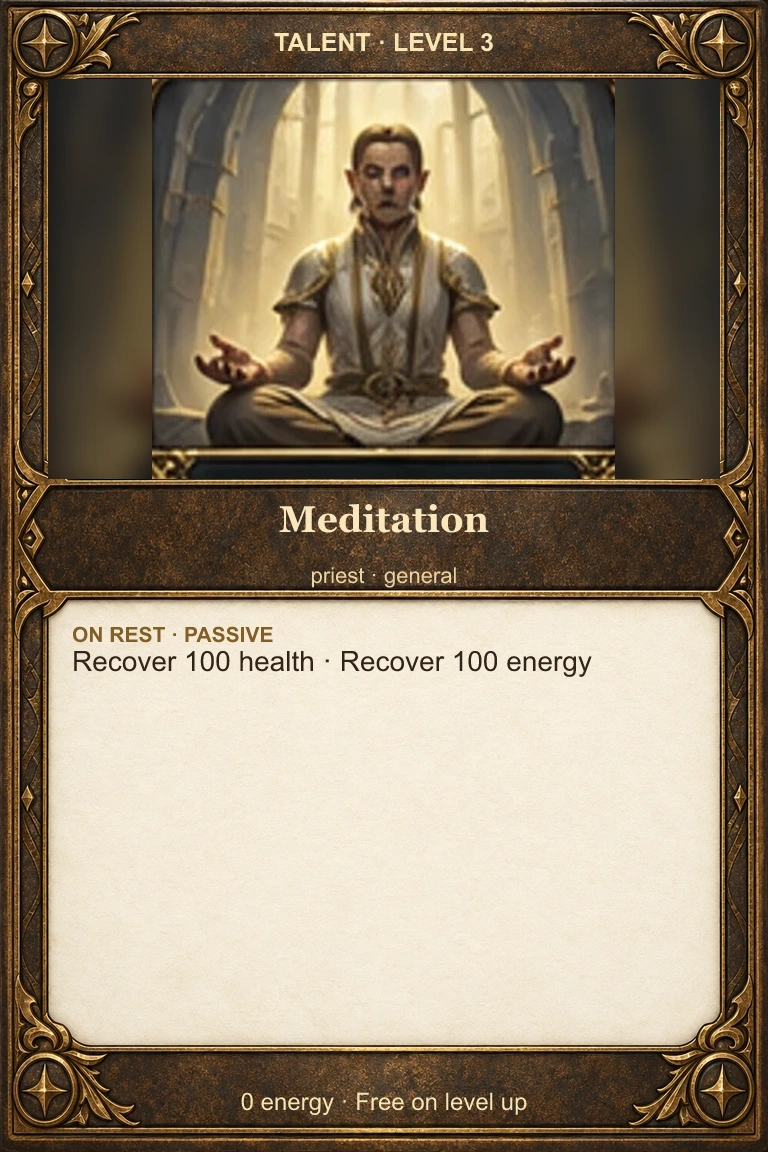
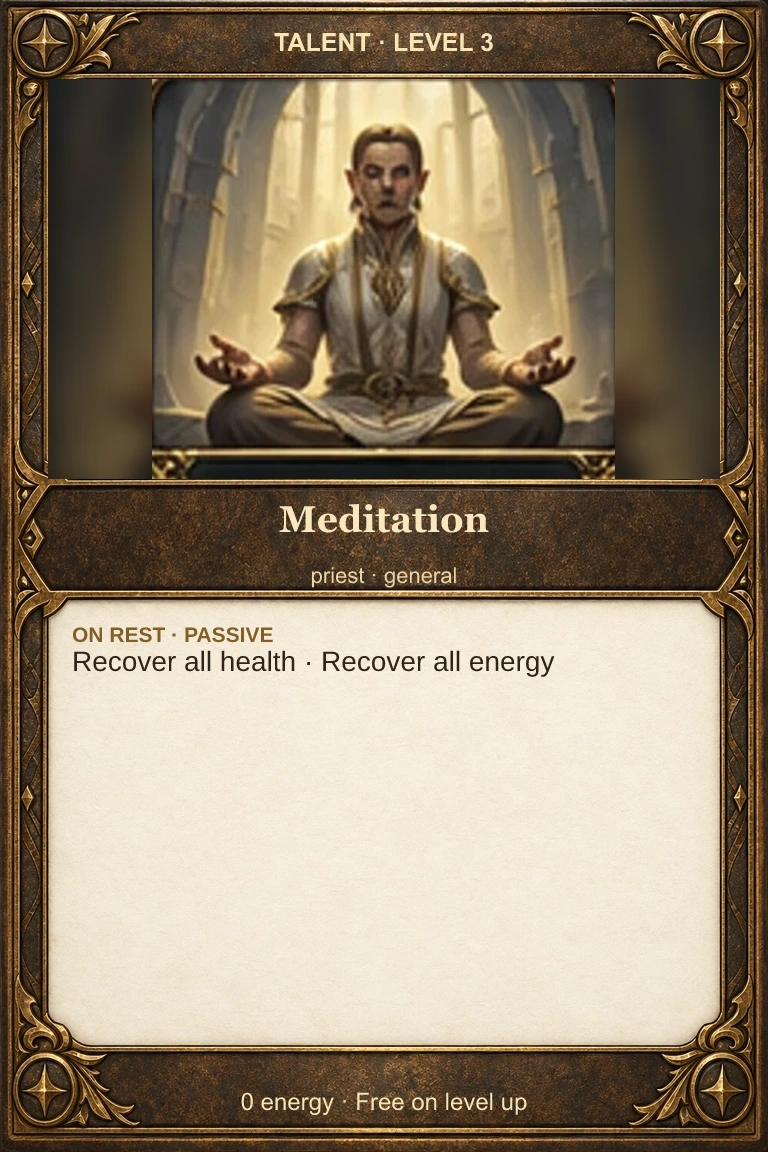
Keep automation running past quest reveals and name full recovery on cards
With Run AI on, every live quest draw opened the "A new quest enters play"
modal and automationPaused halted the bots until a person closed it, so an
unattended campaign never advanced. While automation runs the draw is now
announced with the notice and NEW badge only; the reveal stays available on
demand and opens by itself again once automation is off.

Crocolisk Steak and Meditation express full recovery as an amount no
capacity can exceed, which rendered as "Recover 100 health". Rules text now
reads "Recover all health · Recover all energy", and the rules body of the
three baked card faces is re-rendered with metric-compatible fonts while
header, title, art and footer pixels stay untouched.

Claude-Session: https://claude.ai/code/session_01Eo1g1NmvJ7h5eknWYLT55n

Changed region(s): [[0.2188, 0.5312, 0.7812, 0.5938], [0.1562, 0.5312, 0.1875, 0.5625], [0.0938, 0.5625, 0.125, 0.5938]]

diff --git a/src/Campaign.tsx b/src/Campaign.tsx
@@ -137,7 +137,7 @@ export default function Campaign(){
  <header className="topbar"><button className="wordmark" onClick={()=>setPage('board')}><span className="brand-crest"><GameIcon name="melee" size={35}/></span><span><strong>WORLD <small>of</small> WARCRAFT</strong><em>THE BOARD GAME <i/> 2005 + FAQ</em></span></button><nav className="topnav" aria-label="Main navigation">{[['board',"Campaign"],['cards',"Card library"],['heroes',"Heroes"],['journal',"Chronicle"],['rules',"Rules"]].map(([id,label])=><button key={id} className={page===id?'active':''} aria-current={page===id?'page':undefined} onClick={()=>setPage(id)}>{label}</button>)}</nav><div className="header-right"><button className={`session-badge ${saveUnavailable?'save-unavailable':''}`} onClick={()=>open('settings')} title={saveUnavailable?'Autosave is unavailable. Export your game before closing this tab.':'Local game · Manage saved games'}><i/>{saveUnavailable?'SAVE UNAVAILABLE':'LOCAL GAME'}</button><button className="icon-button" aria-label="New game" title="Set up a new campaign" onClick={()=>open('new')}><Icon name="plus"/></button><button className="icon-button" aria-label="Settings" onClick={()=>open('settings')}><Icon name="settings"/></button></div></header>
  <main className="campaign-main"><div className="campaign-title"><div><div className="eyebrow"><span className="chapter-dot"/>LORDAERON <span className="slash">/</span> A WAR OF TWO FACTIONS</div><h1>Fate of the kingdom<span>{phaseLabel[state.phase]}</span></h1></div><div className="campaign-turn"><FactionCrest faction={state.faction}/><span className={state.faction}>{factionLabel(state.faction)}</span><b>{state.turn}<small> / 30{state.lap?` · lap ${state.lap}`:''}</small></b><button className="quiet-button" disabled={!nextPhase} onClick={()=>nextPhase&&send(nextPhase)}>{state.phase==='actions'?"Management":"End turn"}<Icon name="arrow"/></button></div></div>
  {page==='board'&&game.needsSetup&&<section className="campaign-welcome"><span className="sheet-eyebrow">A WAR OF TWO FACTIONS</span><h2>Your adventure begins here.</h2><p>Prepare the table, choose your characters and discover how your first turn works.</p><button className="gold-button" onClick={()=>open('new')}>Set up a campaign <Icon name="arrow"/></button></section>}
- {page==='board'&&!game.needsSetup&&<Tabletop key={questSession} state={state} h={h} legal={legal} controlled={controlled} bots={bots} takeControl={id=>{setBots(previous=>previous.filter(bot=>bot!==id));chooseHero(id);}} auto={auto} botReady={botReady} botReason={botReason} selectHero={chooseHero} selected={selected} selectRegion={setSelected} inspect={inspect} open={open} send={send} botStep={botStep} toggleBots={()=>setAuto(v=>!v)} focused={mapFocus} toggleFocus={()=>setMapFocus(v=>!v)} notify={setToast} combatOpen={combatOpen} toggleCombat={()=>setCombatOpen(v=>!v)} onWorkspaceChange={setWorkspaceOpen} questActivity={<QuestActivity key={questSession} state={state} autoRevealSetup={revealSetup} suspended={!!panel||detailOpen||workspaceOpen||decision||state.phase==='combat'} onOpenChange={visible=>{setQuestOpen(visible);if(visible)setRevealSetup(false);}} onLocate={region=>{setSelected(region);setMapFocus(true);}}/>}/>}
+ {page==='board'&&!game.needsSetup&&<Tabletop key={questSession} state={state} h={h} legal={legal} controlled={controlled} bots={bots} takeControl={id=>{setBots(previous=>previous.filter(bot=>bot!==id));chooseHero(id);}} auto={auto} botReady={botReady} botReason={botReason} selectHero={chooseHero} selected={selected} selectRegion={setSelected} inspect={inspect} open={open} send={send} botStep={botStep} toggleBots={()=>setAuto(v=>!v)} focused={mapFocus} toggleFocus={()=>setMapFocus(v=>!v)} notify={setToast} combatOpen={combatOpen} toggleCombat={()=>setCombatOpen(v=>!v)} onWorkspaceChange={setWorkspaceOpen} questActivity={<QuestActivity key={questSession} state={state} autoRevealSetup={revealSetup} announceOnly={auto} suspended={!!panel||detailOpen||workspaceOpen||decision||state.phase==='combat'} onOpenChange={visible=>{setQuestOpen(visible);if(visible)setRevealSetup(false);}} onLocate={region=>{setSelected(region);setMapFocus(true);}}/>}/>}
  {page==='cards'&&<BaseCatalog inspect={inspect}/>}
  {page==='heroes'&&<section className="character-codex"><div className="character-roster">{p.characters.map(c=><button key={c.id} aria-pressed={codexHero===c.id} onClick={()=>setCodexHero(c.id)}><HeroPortrait id={c.id} small/><span><strong>{c.name.split(' ')[0]}</strong><small>{c.classId} · {factionLabel(c.faction)}</small></span></button>)}</div><CharacterSheet key={codexHero} hero={state.heroes.find(h=>h.id===codexHero)??startingHero(codexHero)} inspect={inspect} preview/></section>}
  {page==='design'&&<Suspense fallback={<p>Loading…</p>}><DesignGallery/></Suspense>}

diff --git a/src/campaign/QuestReveal.tsx b/src/campaign/QuestReveal.tsx
@@ -73,8 +73,9 @@ export function QuestReveal({ receipt, state, onClose, onLocate }: { receipt: Qu
 }
 
 /** Keeps a placement receipt outside the quest workspace so automated draws stay visible. */
-export default function QuestActivity({ state, onLocate, suspended = false, autoRevealSetup = false, onOpenChange }: { state: GameView; onLocate?: (region: string, quest: string) => void; suspended?: boolean; autoRevealSetup?: boolean; onOpenChange?: (visible: boolean) => void }) {
+export default function QuestActivity({ state, onLocate, suspended = false, autoRevealSetup = false, announceOnly = false, onOpenChange }: { state: GameView; onLocate?: (region: string, quest: string) => void; suspended?: boolean; autoRevealSetup?: boolean; /** Announce live draws without opening the reveal, so running automation is never blocked by a modal. */ announceOnly?: boolean; onOpenChange?: (visible: boolean) => void }) {
  const previous = useRef<QuestState>(state);
+ const quiet = useRef(announceOnly); quiet.current = announceOnly;
  const notifyVisibility = useRef(onOpenChange); notifyVisibility.current = onOpenChange;
  const [latest, setLatest] = useState<QuestReceipt>(() => questReceipt(state, state.revision === 0 ? 'setup' : 'overview'));
  const [open, setOpen] = useState(autoRevealSetup);
@@ -93,7 +94,7 @@ export default function QuestActivity({ state, onLocate, suspended = false, auto
   if (receipt) {
    setLatest(receipt); setFresh(true); setOverview(false);
    setNotice(`${receipt.quests.map(id => p.quests.find(q => q.id === id)!.name).join(', ')} drawn. ${placementTotals(receipt).creatures} creatures placed on the map.`);
-   setOpen(true);
+   if (!quiet.current) setOpen(true);
   } else if (finished.length) setNotice(`${finished.map(id => p.quests.find(q => q.id === id)!.name).join(', ')} completed. Resolve rewards, then choose a replacement quest.`);
  }, [state]);
  const close = () => { setOpen(false); setFresh(false); };

diff --git a/src/campaign/rules-text.ts b/src/campaign/rules-text.ts
@@ -22,12 +22,14 @@ function rawConditionText(c:Condition):string{
   case 'used':return `used this round: ${c.cardId}`;case 'used-any':return `used this round: ${c.cards.join(' / ')}`;
  }
 }
+/** Cards such as Crocolisk Steak recover up to capacity; the data expresses that as an amount no capacity can exceed. */
+export const FULL_RECOVERY=100;
 export const effectText=(e:Effect):string=>readable(rawEffectText(e));
 function rawEffectText(e:Effect):string{
  switch(e.op){
   case 'dice':return `+${e.amount} ${colorName[e.color]} dice`;
   case 'stat':return `${e.amount>=0?'+':''}${e.amount} ${e.stat==='reroll'?'Reroll':e.stat==='attrition'?'Attrition':e.stat==='armor'?'Armor':'Threat'}`;
-  case 'resource':return `${e.amount<0?"Spend":e.gain?"Gain":"Recover"} ${Math.abs(e.amount)} ${e.resource==='health'?"health":e.resource==='energy'?"energy":"gold"}${e.target==='friendly'?" for an ally":''}${e.gain?" (may exceed capacity)":''}`;
+  case 'resource':{const name=e.resource==='health'?"health":e.resource==='energy'?"energy":"gold";if(e.amount>=FULL_RECOVERY&&!e.gain&&e.resource!=='gold')return `Recover all ${name}${e.target==='friendly'?" for an ally":''}`;return `${e.amount<0?"Spend":e.gain?"Gain":"Recover"} ${Math.abs(e.amount)} ${name}${e.target==='friendly'?" for an ally":''}${e.gain?" (may exceed capacity)":''}`;}
   case 'spot':return `Spot ${e.count} (${filterText(e.filter)}) → ${e.effects.map(effectText).join('; ')}`;
   case 'remove':return `Remove ${e.count} (${filterText(e.filter)}) → ${e.effects.map(effectText).join('; ')}`;
   case 'change':return `Change ${e.count} (${filterText(e.filter)}) → ${e.delta?`value +${e.delta}, up to 8`:e.value??"same value"}${e.colorChoice?', any available color':e.color?`, ${colorName[e.color]} dice`:''}`;

diff --git a/tests/quest-visibility.test.tsx b/tests/quest-visibility.test.tsx
@@ -104,6 +104,25 @@ describe('quest discovery without changing the game', () => {
   expect(screen.getByRole('button', { name: new RegExp(`${questLabel(p, q.id)}.*${q.name}`) })).toBeTruthy();
  });
 
+ it('announces a live draw without opening the reveal while campaign automation is running', () => {
+  const s = createGame(p, DEFAULT_SETUP); s.revision = 5;
+  const visibility = vi.fn();
+  const r = render(<QuestActivity state={view(s)} autoRevealSetup={false} announceOnly onOpenChange={visibility}/>);
+  const next = structuredClone(s), q = p.quests.find(q => !s.quests.includes(q.id) && q.faction === 'horde' && q.tier === 'green')!;
+  spawnQuest(p, next, q); next.revision++;
+  r.rerender(<QuestActivity state={view(next)} autoRevealSetup={false} announceOnly onOpenChange={visibility}/>);
+  expect(screen.queryByRole('dialog')).toBeNull();
+  expect(visibility).toHaveBeenLastCalledWith(false);
+  expect(screen.getByRole('status').textContent).toContain(`${q.name} drawn`);
+  expect(screen.getByText('NEW')).toBeTruthy();
+  // The draw stays available on demand, and stopping automation never reopens it by itself.
+  r.rerender(<QuestActivity state={view(next)} autoRevealSetup={false} onOpenChange={visibility}/>);
+  expect(screen.queryByRole('dialog')).toBeNull();
+  fireEvent.click(screen.getByRole('button', { name: 'Review latest quest draw' }));
+  expect(screen.getByRole('dialog', { name: 'A new quest enters play' })).toBeTruthy();
+  expect(screen.getByRole('button', { name: new RegExp(`${questLabel(p, q.id)}.*${q.name}`) })).toBeTruthy();
+ });
+
  it('shows complete placement immediately when reduced motion is requested', () => {
   vi.stubGlobal('matchMedia', () => ({ matches: true }));
   const s = createGame(p, DEFAULT_SETUP);
